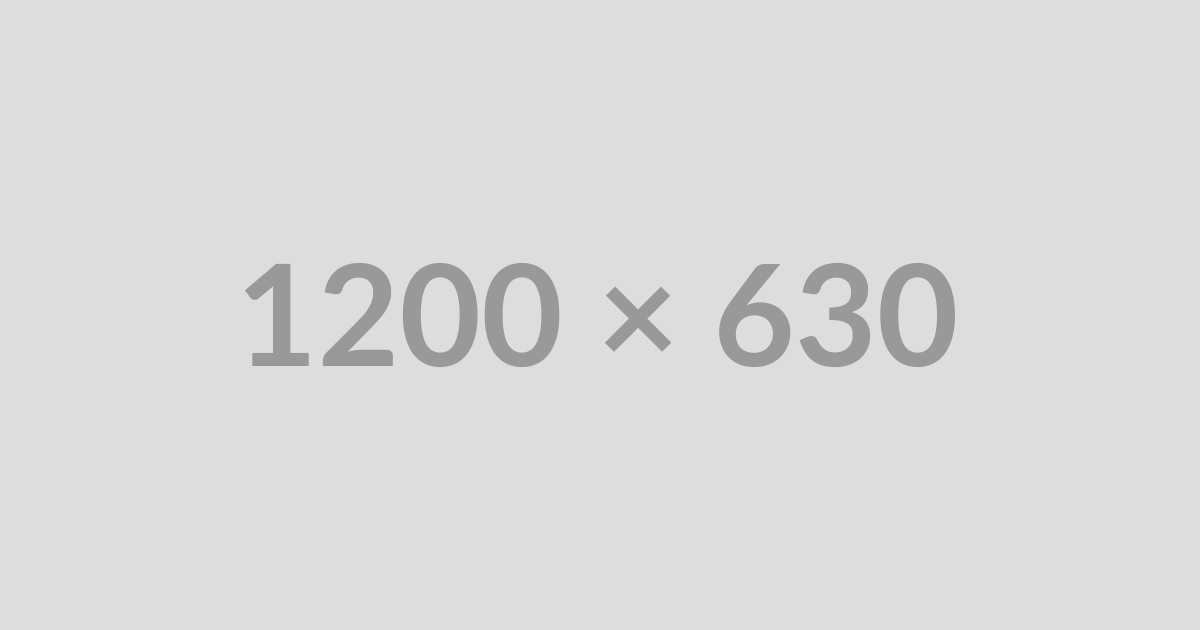
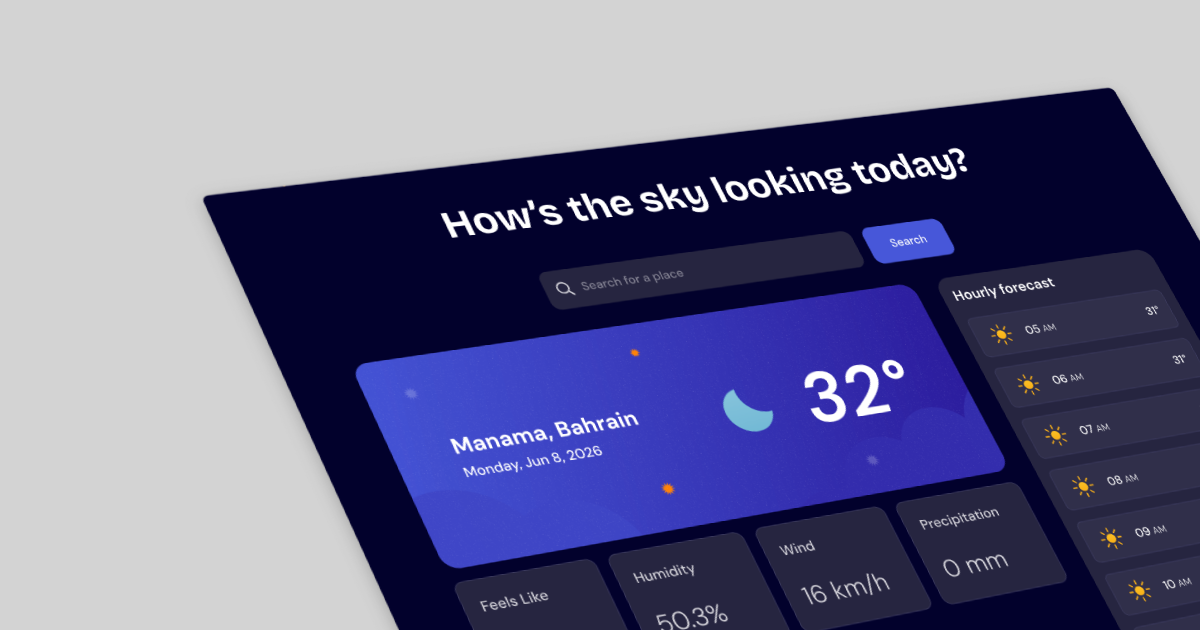
Update README. Add screenshot and og image.

diff --git a/src/index.css b/src/index.css
@@ -104,7 +104,9 @@ section {
   display: flex;
   align-items: center;
   gap: 1rem;
-  font-weight: 700;
+  font-weight: 500;
+  font-size: 1.2rem;
+  letter-spacing: -2px;
 
   img {
     width: 2.5rem;
@@ -192,6 +194,7 @@ section {
     text-align: center;
     border-radius: var(--radius-lg);
     padding: 1rem;
+    position: relative;
 
     @media (min-width: 45rem) {
       display: flex;
@@ -432,6 +435,12 @@ section {
   position: absolute;
   font-size: 1.125rem;
   color: var(--neutral-200);
+
+  @media (max-width: 45rem) {
+    top: 50%;
+    left: 40%;
+    transform: translateY(-50%);
+  }
 
   img {
     fill: pink;

diff --git a/src/index.js b/src/index.js
@@ -63,11 +63,11 @@ async function renderApp() {
       errorEl.classList.remove("active");
       updateDOM(wxData, locName);
       allValuesEl.forEach((value) => (value.style.opacity = "1"));
-      loadingEl.textContent = "";
     } catch (err) {
       errorEl.textContent = "No search results found!";
       errorEl.classList.add("active");
     } finally {
+      loadingEl.textContent = "";
     }
   };
 

diff --git a/README.md b/README.md
@@ -1,6 +1,6 @@
 ![](./screenshot.png)
 
-# Title
+# Weather App Project
 
 This is a solution to the [Weather App challenge](https://www.theodinproject.com/lessons/node-path-javascript-weather-app) from The Odin Project.
 
@@ -9,6 +9,18 @@ This is a solution to the [Weather App challenge](https://www.theodinproject.com
 -   Solution on [GitHub](https://github.com/sydalwedaie/odin-project-weather-app)
 -   Live preview on [Netlify](https://odin-weather-app-not4g.netlify.app/)
 
+## Tools Used
+
+It's a vanillaJS project with two APIs. Visual Crossing's [Weather API](ttps://www.visualcrossing.com/weather-api/) to get the weather data, and [LocationIQ](https://locationiq.com/) to get city and country names. The script would first fetch the weather data (given a user's query for a place), and feed the coordinates from the response into the LocationIQ API to fetch the location's details.
+
+Unlike the Todo app project, where I used classes exclusively, for this project, I opted for factory functions. Unlike a Todo app, where hundreds of Todos may benefit from the low memory footprint prototypes, this weather app basically had only 3 view functions that would render only once on initial load. I also wanted to alternate between classes and functions in my projects to get used to both approaches.
+
+## What I learned
+
+This project follows the Asynchronous JavaScript section of the Odin Project. Although the theory lessons did a good job of explaining the concepts, it was only during this project that I internalized them. The first gotcha was when I tried to render the DOM _after_ I called the fetch data from the weather API. I naively had a `render` function that would take the fetched weather data as its input. When I called the render function, I noticed there was a delay until anything showed up. Only then did I realize that the render function was being blocked by the fetch function, which used promises to get the weather data. So, I created a factory function that returned two functions: one `render` function to just render an empty skeleton, and a `load` function to _hydrate_ the DOM only when the data is received.
+
 ## Attribution
 
-Design by [Frontend Mentor](https://odin-weather-app-not4g.netlify.app/)
+-   Design by [Frontend Mentor](https://odin-weather-app-not4g.netlify.app/)
+-   Beautiful weather icons by [Meteocons](https://meteocons.com/)
+-   Loading icons by [megacdn](https://magecdn.com/tools/svg-loaders)